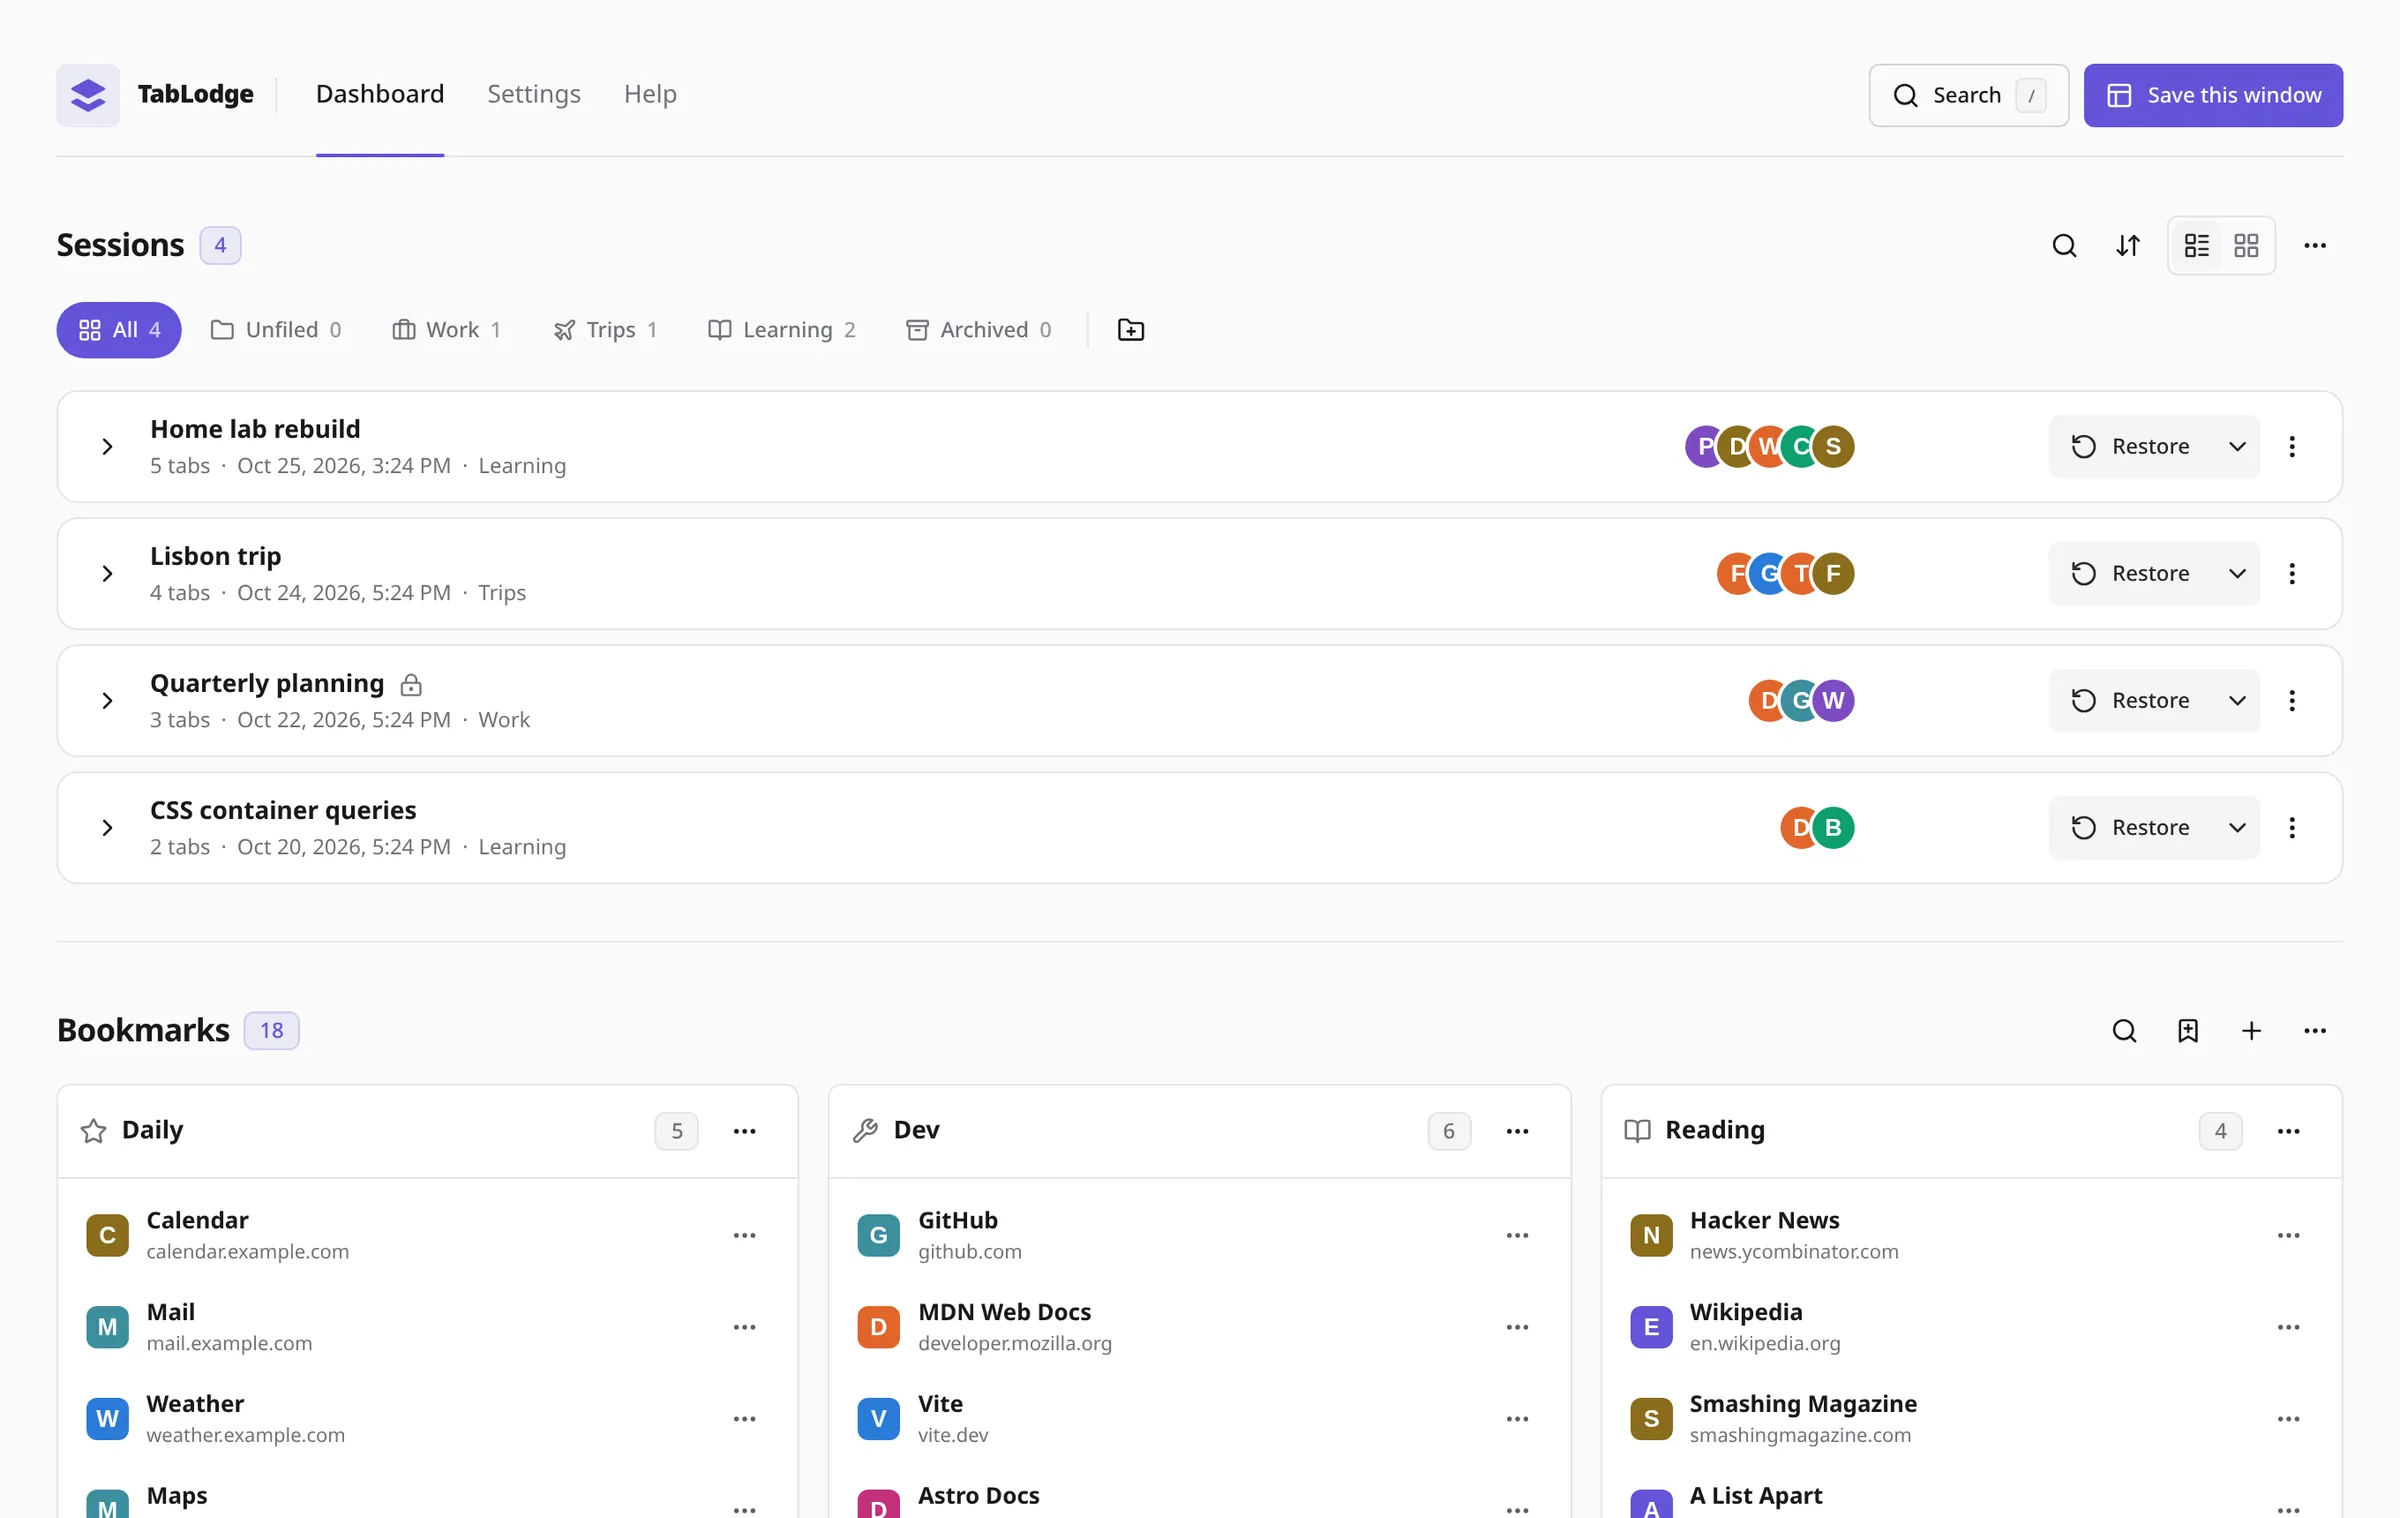
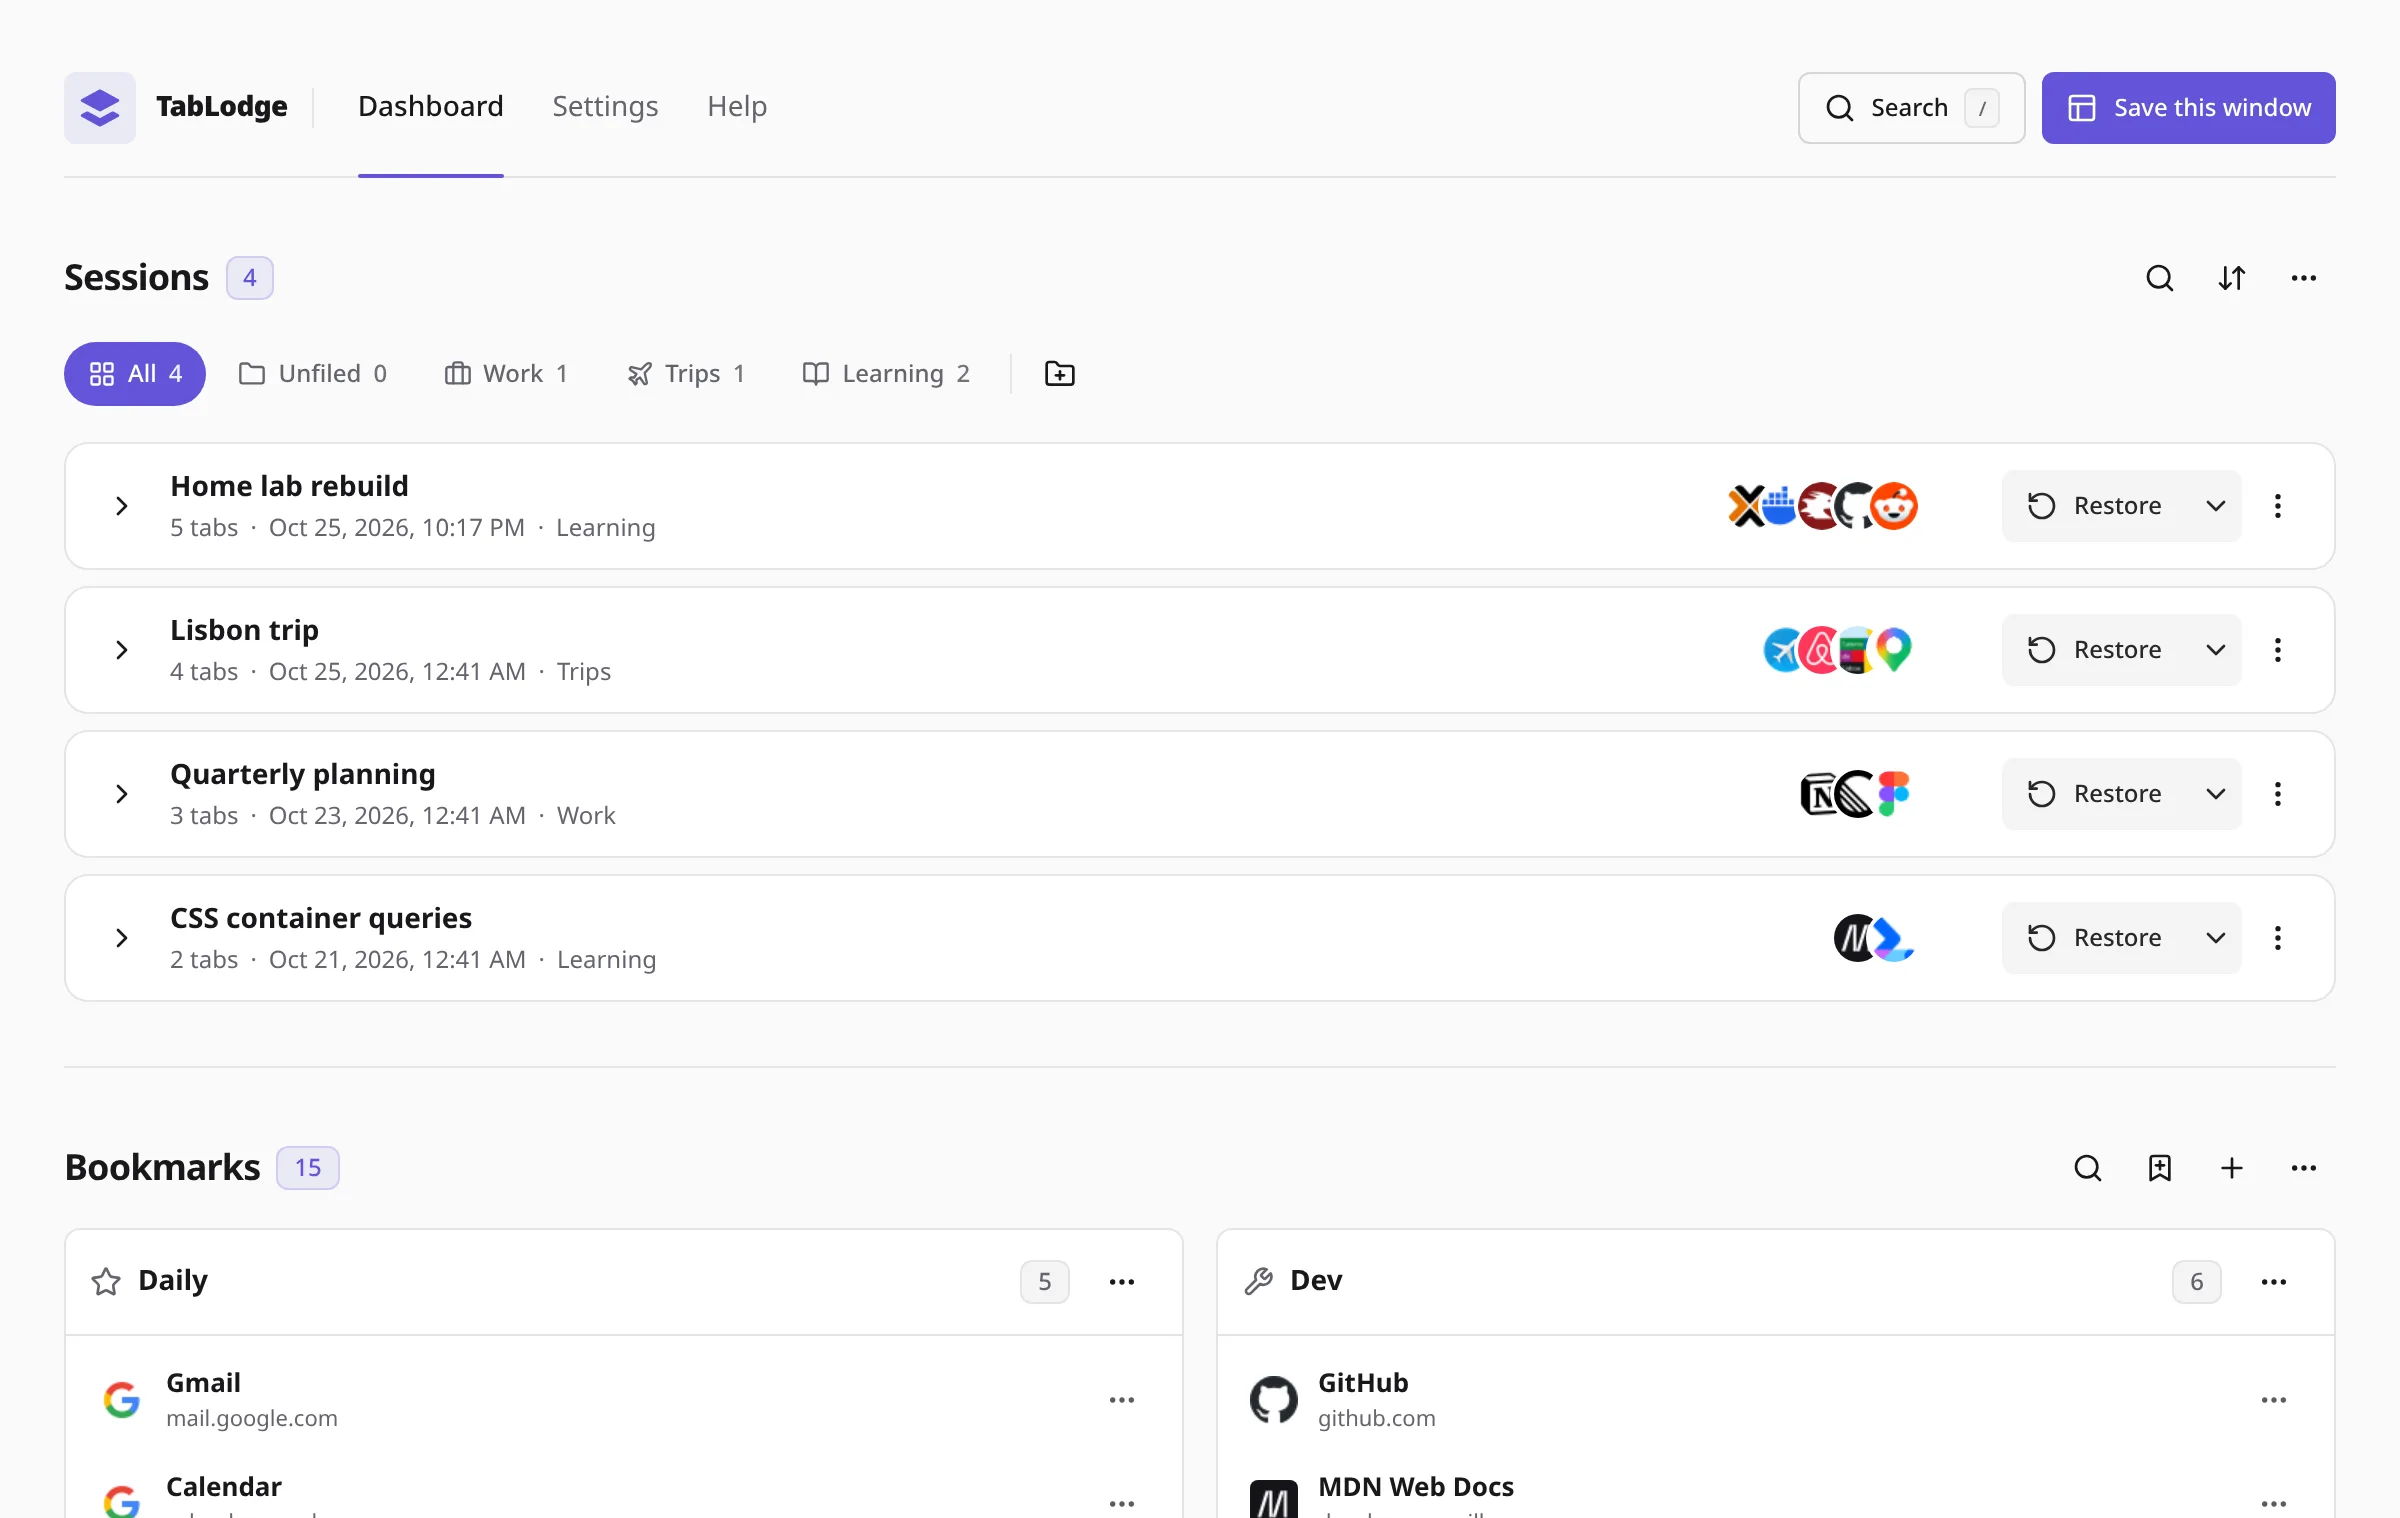
docs(site): refresh screenshots and copy for the current features
New screenshots without the grid switch, archive and lock. Copy now covers
session naming, paste-to-bookmark, merging, drag to folders, the full ZIP backup,
crash recovery and Undo; the privacy page lists the alarms and optional
downloads permissions and the recovery data. AGENTS.md asks to check the site
after every change.

diff --git a/AGENTS.md b/AGENTS.md
@@ -1,3 +1,5 @@
 # Agent instructions
 
 Commit messages must list only the human author; never add `Co-Authored-By` trailers or AI-agent attribution.
+
+After finishing a change (a PR or any other work), take a quick look at the landing website in `site/` (mainly `site/src/pages/index.astro`, plus `alternatives.astro` and `privacy.astro`) and update anything the change made outdated: features that were added, renamed, or removed, settings, permissions, screenshots, and wording.
